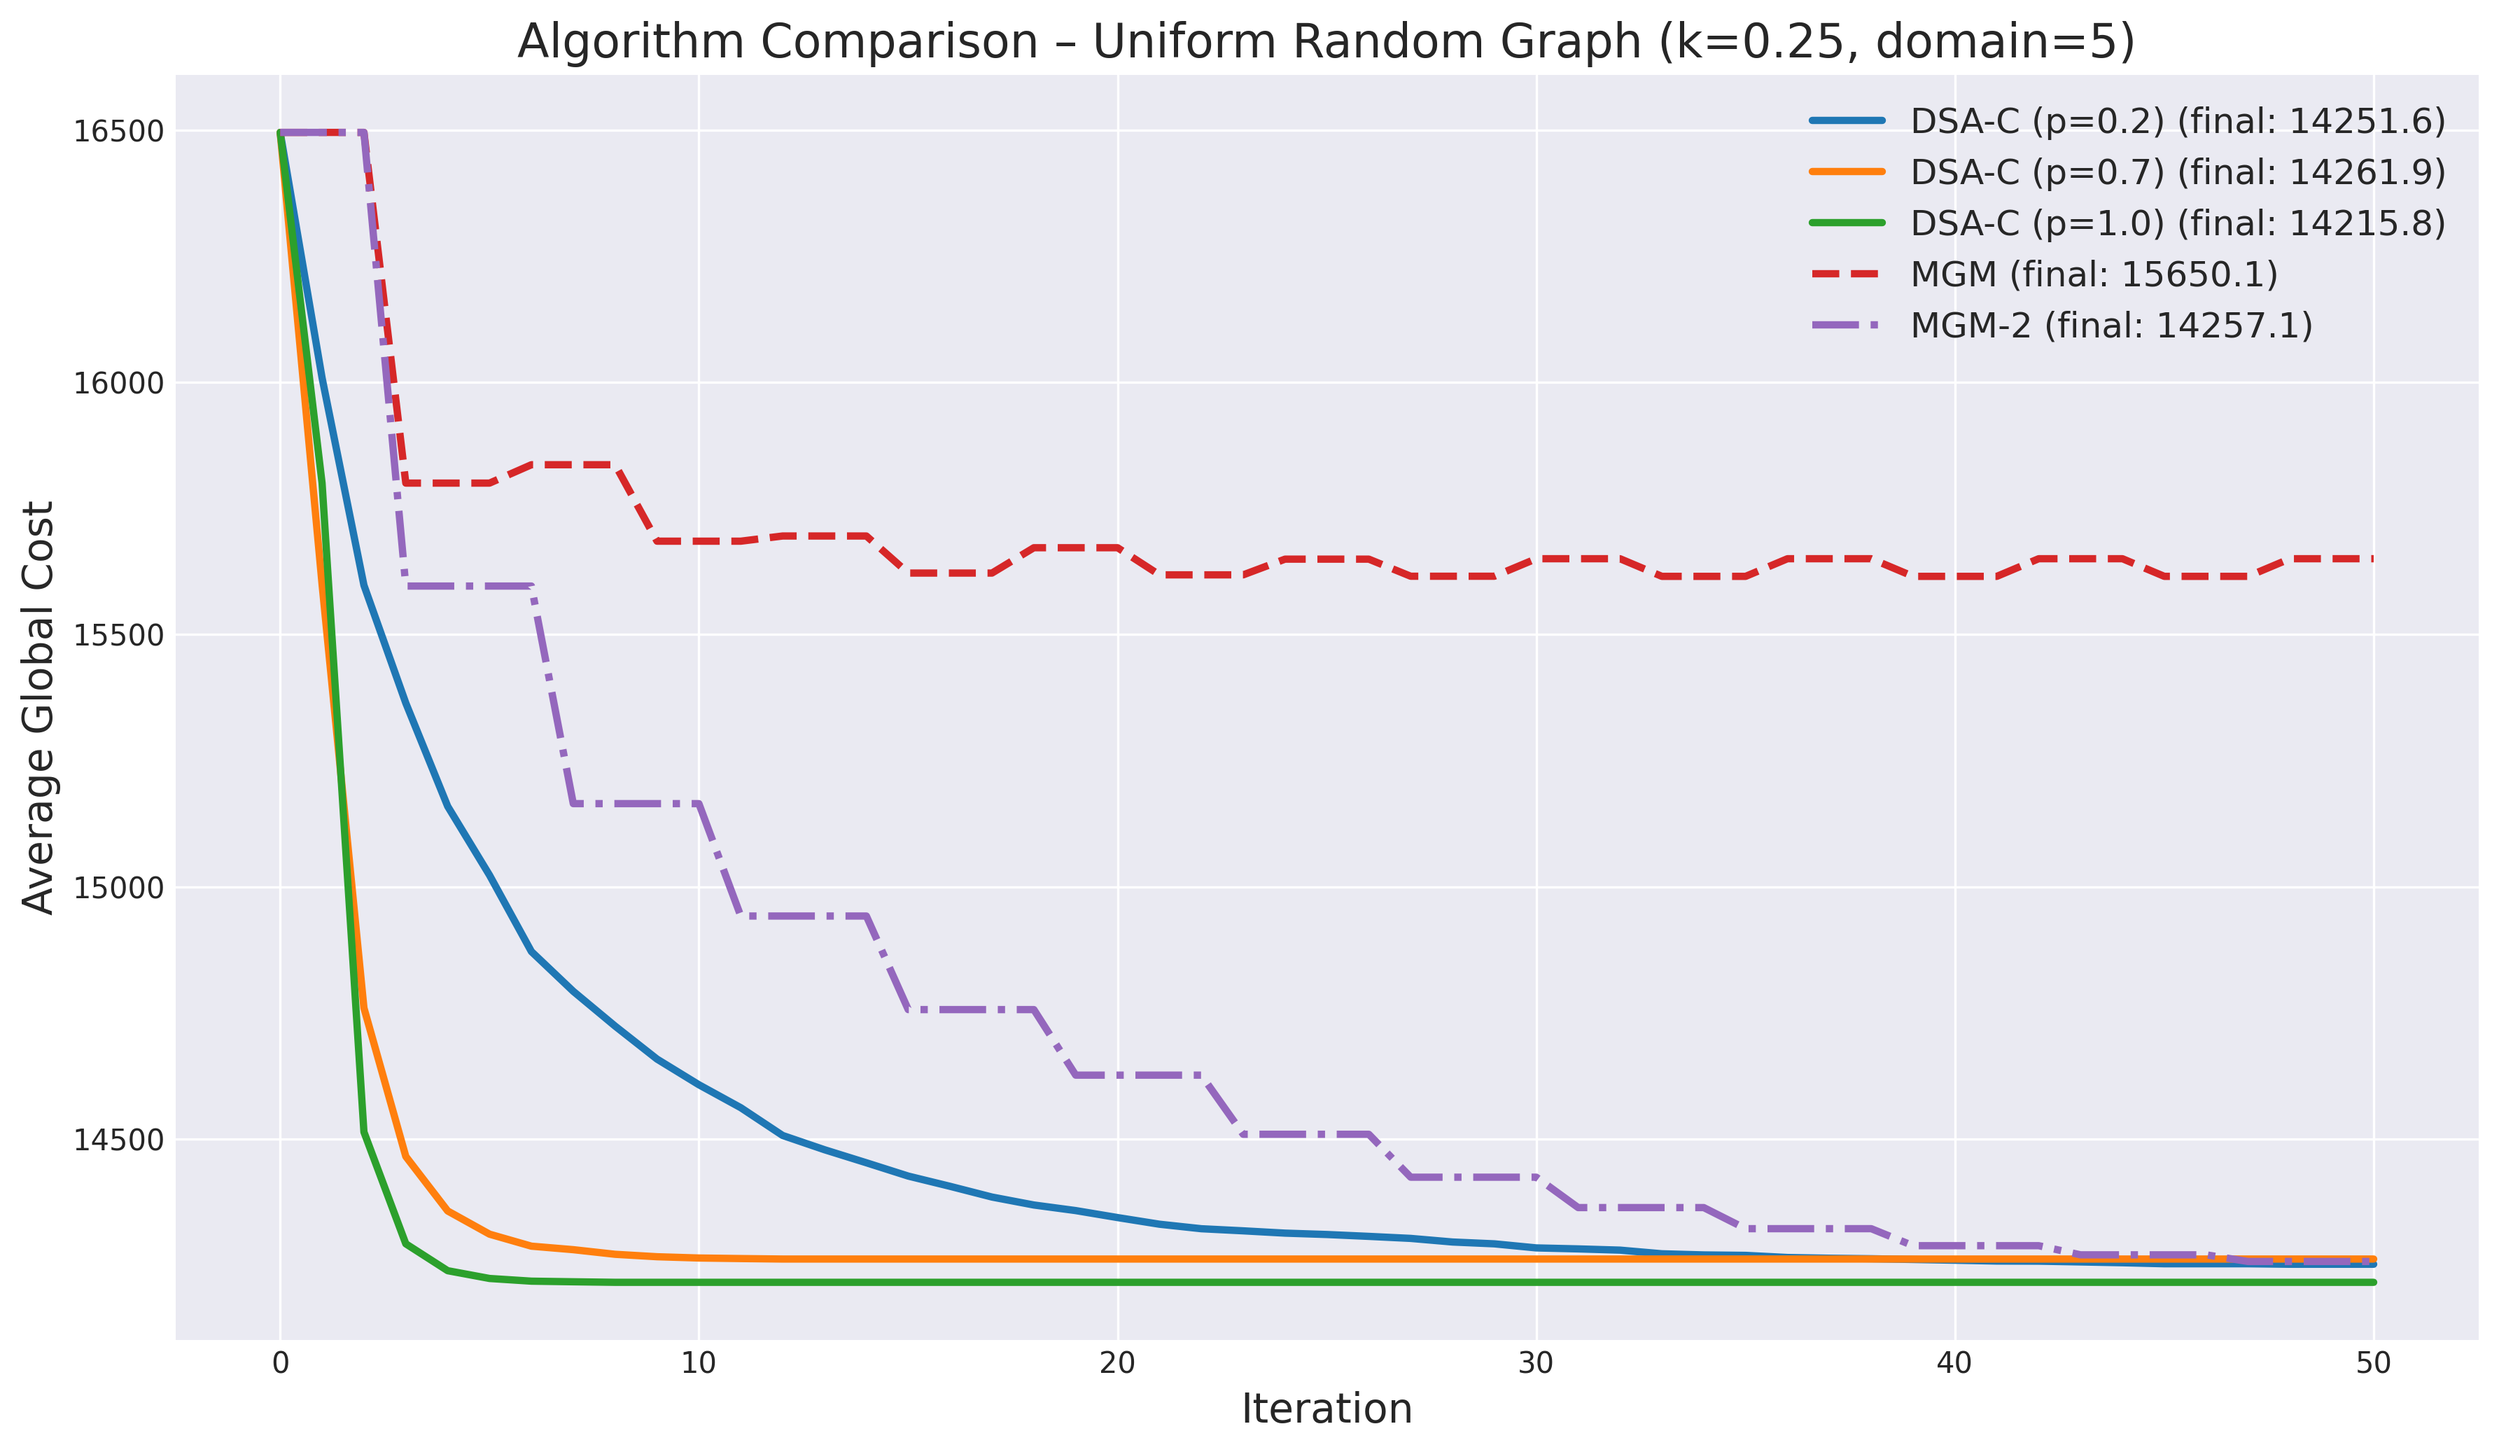
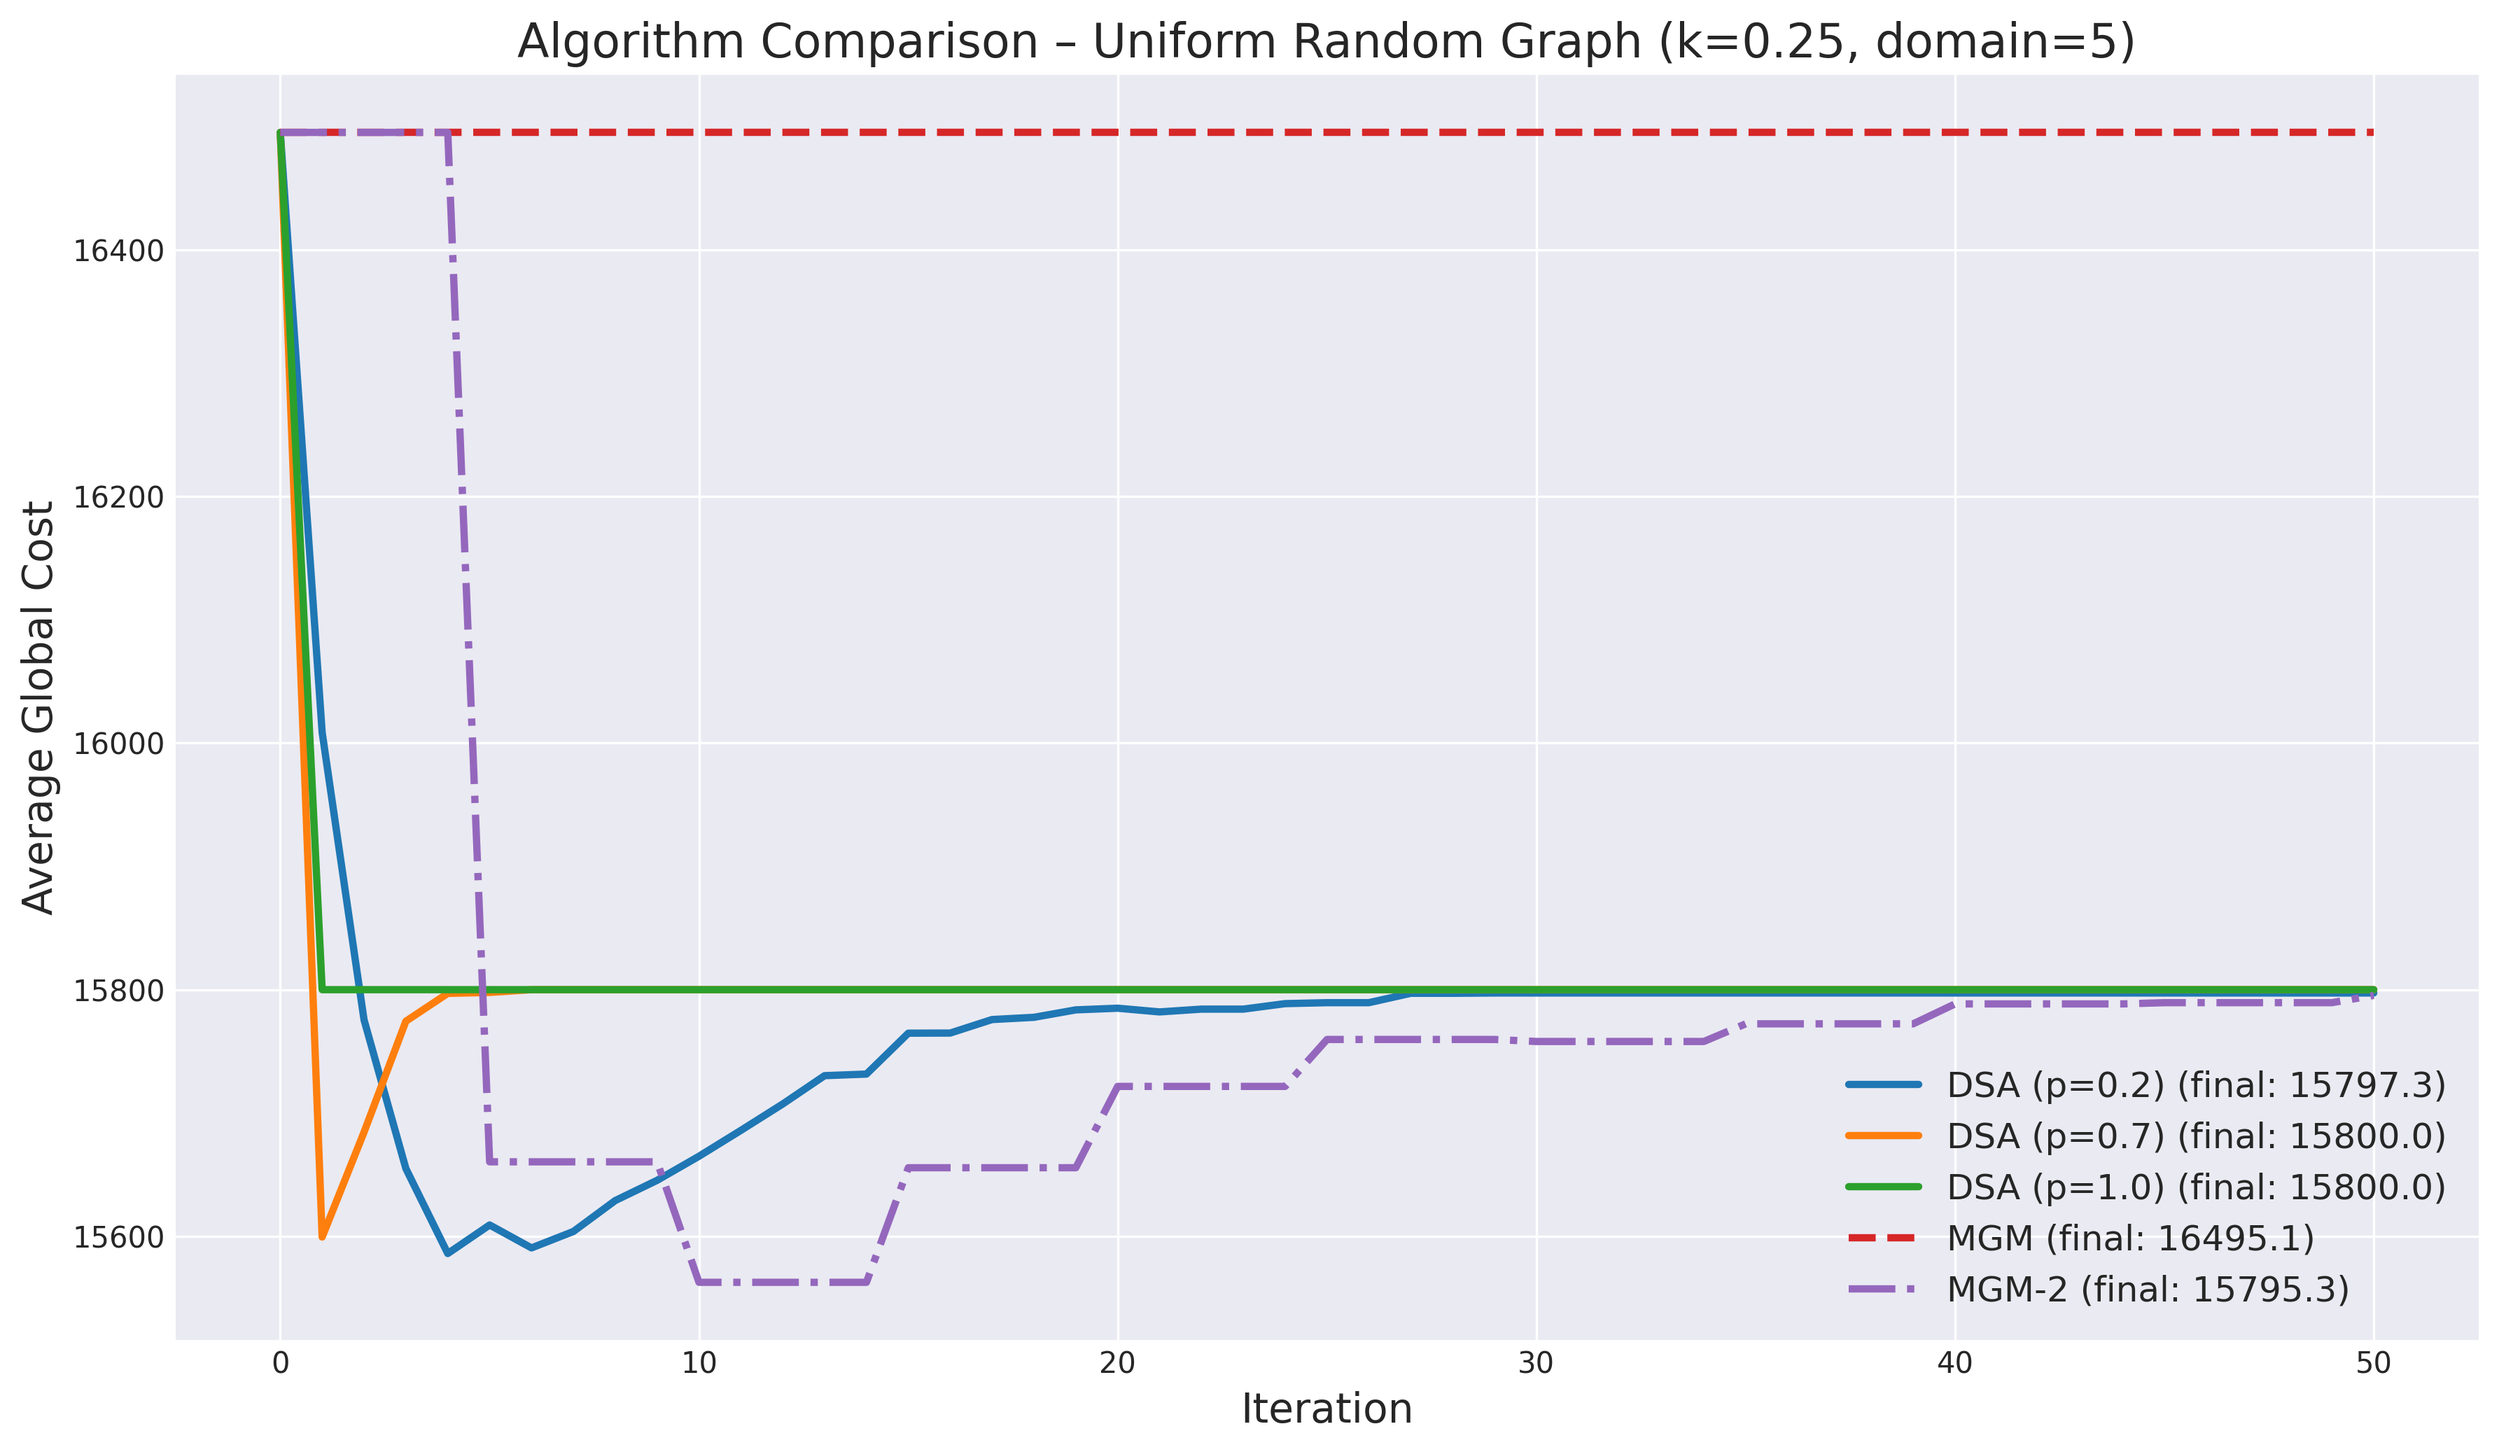
running but the graphs are off

diff --git a/iot/agents.py b/iot/agents.py
@@ -40,7 +40,7 @@ class MGM(Agent):
     
     def __init__(self, name: str, domain_size: int):
         super().__init__(name, domain_size)
-        self.mode = "assignment"
+        self.mode = "lr"
         self.best_lr = 0
         self.best_assignment = self.assignment
 
@@ -83,7 +83,7 @@ class MGM(Agent):
 
             for n in self.neighbors:
                 self._send(n, np.array([self.assignment]), "assignment")
-            self.mode = "assignment"
+            self.mode = "lr"
 
 
 class MGM2(Agent):
@@ -92,7 +92,7 @@ class MGM2(Agent):
     def __init__(self, name: str, domain_size: int):
         super().__init__(name, domain_size)
         self.best_pair_lr = None
-        self.received_lrs = None
+        self.received_lrs = {}
         self.is_offerer = False
         self.current_partner: Optional[str] = None
         self.best_offer: Optional[Tuple[int, int, int]] = None  # (partner_assignment, my_assignment, lr)

diff --git a/iot/experiment.py b/iot/experiment.py
@@ -107,16 +107,16 @@ class ExperimentRunner:
         }
 
         colours = {
-            "DSA-C (p=0.2)": "#1f77b4",
-            "DSA-C (p=0.7)": "#ff7f0e",
-            "DSA-C (p=1.0)": "#2ca02c",
+            "DSA (p=0.2)": "#1f77b4",
+            "DSA (p=0.7)": "#ff7f0e",
+            "DSA (p=1.0)": "#2ca02c",
             "MGM": "#d62728",
             "MGM-2": "#9467bd",
         }
         styles = {
-            "DSA-C (p=0.2)": "-",
-            "DSA-C (p=0.7)": "-",
-            "DSA-C (p=1.0)": "-",
+            "DSA (p=0.2)": "-",
+            "DSA (p=0.7)": "-",
+            "DSA (p=1.0)": "-",
             "MGM": "--",
             "MGM-2": "-.",
         }
